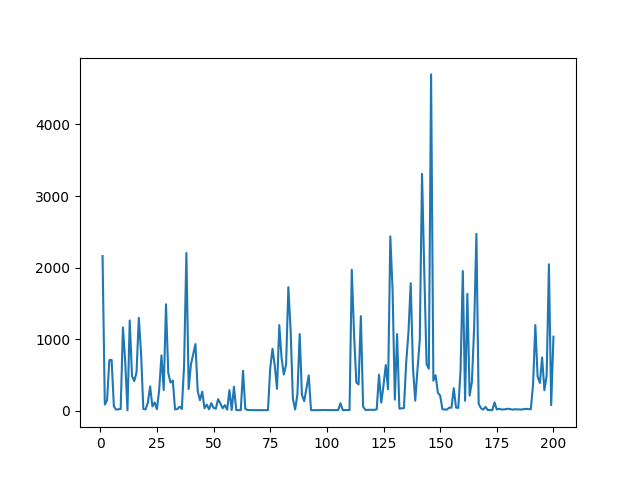
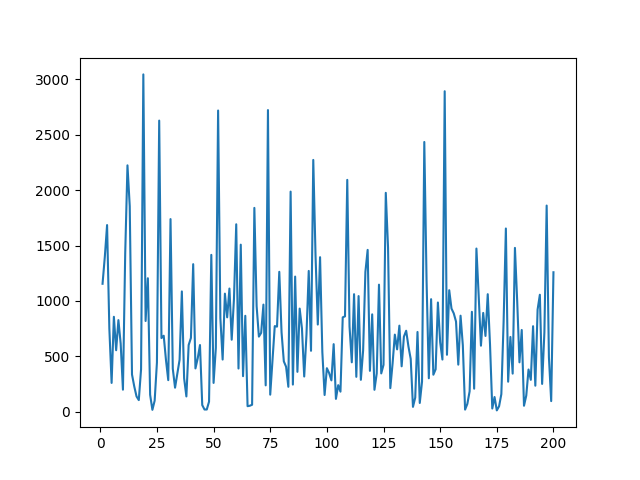
implement ddqn

diff --git a/DQN/trainer/ddqn.py b/DQN/trainer/ddqn.py
@@ -36,7 +36,7 @@ class ExperienceBuffer(object):
         return len(self.memory)
 '''
 
-class DQN(object):
+class DDQN(object):
     def __init__(self, inputs, outputs, env) -> None:
         self.eval_net, self.target_net = MLP(inputs, outputs).to(device=device), MLP(inputs, outputs).to(device=device)
         # self.eval_net, self.target_net = CNN(h, w, outputs).to(device=device), CNN(h, w, outputs).to(device=device)
@@ -75,43 +75,21 @@ class DQN(object):
         self.learn_step_counter += 1
 
         state, action, reward, new_state, done = self.memory.sample_buffer(BATCH_SIZE)
-        '''
-        batch = Experience(*zip(*batch_samples))
-        
-        # Compute a mask of non-final states and concatenate the batch elements
-        # (a final state would've been the one after which simulation ended)
-        non_final_mask = torch.tensor(tuple(map(lambda s: s is not None, batch.next_state)), device=device, dtype=torch.bool).to(device=device)
-        non_final_next_states = torch.cat([torch.FloatTensor(s_) for s_ in batch.next_state if s_ is not None]).reshape(32, 3, 5, 5).to(device=device)
-        # state_batch = torch.cat([torch.FloatTensor(s) for s in batch.state if s is not None])
-        state_batch = torch.cat(tuple(torch.FloatTensor(batch.state))).reshape((32,3,5,5)).to(device=device)
-        action_batch = torch.tensor(batch.action, dtype=torch.int64).to(device=device)
-        reward_batch = torch.FloatTensor(batch.reward).to(device=device)
-
-        # Compute Q(s_t, a) - the model computes Q(s_t), then we select the
-        # columns of actions taken. These are the actions which would've been taken
-        # for each batch state according to policy_net
-        state_action_values = self.eval_net(state_batch).gather(1, action_batch.view(-1, 1))
-
-        # Compute V(s_{t+1}) for all next states.
-        # Expected values of actions for non_final_next_states are computed based
-        # on the "older" target_net; selecting their best reward with max(1)[0].
-        # This is merged based on the mask, such that we'll have either the expected
-        # state value or 0 in case the state was final.
-        next_state_values = torch.zeros(BATCH_SIZE, device=device)
-        next_state_values[non_final_mask] = self.target_net(non_final_next_states).max(1)[0].detach()
-        # Compute the expected Q values
-        expected_state_action_values = (next_state_values * GAMMA) + reward_batch
-        loss = self.loss_func(state_action_values, expected_state_action_values.unsqueeze(1))
-        '''
         b_s = torch.tensor(state, dtype=torch.float).to(device=device)
         b_a = torch.tensor(action, dtype=torch.long).to(device=device)
         b_r = torch.tensor(reward, dtype=torch.float).to(device=device)
         b_s_ = torch.tensor(new_state, dtype=torch.float).to(device=device)
 
         q_eval = self.eval_net(b_s).gather(1, b_a)
-        q_next = self.target_net(b_s_).detach()
-        
-        q_target = b_r + GAMMA * q_next.max(1)[0].view(BATCH_SIZE, 1)
+
+        q_eval_values = self.eval_net(b_s_).detach()
+        _, a_prime = q_eval_values.max(1)
+
+        q_target_values = self.target_net(b_s_).detach()
+        q_target_s_a_prime = q_target_values.gather(1, a_prime.unsqueeze(1))
+        q_target_s_a_prime = q_target_s_a_prime.squeeze()
+        q_target = b_r.reshape(BATCH_SIZE, 1) + GAMMA * q_target_s_a_prime.view(BATCH_SIZE, 1)
+
         loss = self.loss_func(q_eval, q_target)
 
         # loss = self.loss_func(q_eval, q_target)

diff --git a/DQN/run_dqn.py b/DQN/run_dqn.py
@@ -1,4 +1,4 @@
-from trainer.dqn import DQN, MEMORY_CAPACITY
+from trainer.ddqn import DDQN, MEMORY_CAPACITY
 from environments.DQN_Environment import DQN_Environment
 import signal
 from utils.utils import plot_curve
@@ -12,7 +12,7 @@ def init_test_env():
     startAt = [0 ,0]
     arrivalAt = [4,4]
     env = DQN_Environment(board=board)
-    data_volumn = [100, 120, 90]
+    data_volumn = [1000, 1200, 900]
     env.init(startAt=startAt, arrivalAt=arrivalAt, data_volume=data_volumn)
     return env
 
@@ -37,7 +37,7 @@ if __name__ == "__main__":
     env = init_test_env()
     # dqn = DQN(5, 5, env.get_action_space().n(), env=env)
     n_games = 200
-    dqn = DQN(env.get_linear_state_length(), 5, env)
+    ddqn = DDQN(env.get_linear_state_length(), 5, env)
     best_action_sequence = []
     best_num_steps = 9999999999999999
     episode_rewards = []
@@ -49,7 +49,7 @@ if __name__ == "__main__":
 
         while True:
             # env.render()
-            a = dqn.choose_action(s, current_position)
+            a = ddqn.choose_action(s, current_position)
             s_, r, done, current_position = env.step(a)
 
             '''
@@ -60,13 +60,13 @@ if __name__ == "__main__":
             new_r = r1 + r2
             '''
 
-            dqn.store_transition(s, a, r, s_, done)
+            ddqn.store_transition(s, a, r, s_, done)
             episode_reward_sum += r
 
             s = s_
 
-            if dqn.memory_counter > MEMORY_CAPACITY:
-                dqn.learn()
+            if ddqn.memory_counter > MEMORY_CAPACITY:
+                ddqn.learn()
 
             if done:
                 print('episode%s---reward_sum: %s' % (i, round(episode_reward_sum, 2)))

diff --git a/DQN/environments/DQN_Environment.py b/DQN/environments/DQN_Environment.py
@@ -108,7 +108,7 @@ class DQN_Environment():
         reward -= 1
         if is_done:
             # reward += 1000
-            reward -= 10 * np.max(np.array(self.data_volume_required) - np.array(self.data_volume_collected))
+            reward -= 0.5 * np.max(np.array(self.data_volume_required) - np.array(self.data_volume_collected))
         '''
         if self.num_steps > 5000:
             reward -= 100
@@ -118,7 +118,7 @@ class DQN_Environment():
         return self.get_state_linear(), reward, is_done, self.current_position
 
     def test_reward_function(self):
-        return sum(self.data_transmitting_rate_list)
+        return 0.5*sum(self.data_transmitting_rate_list)/len(self.data_transmitting_rate_list)
 
     def get_action_space(self):
         return self.action_space
